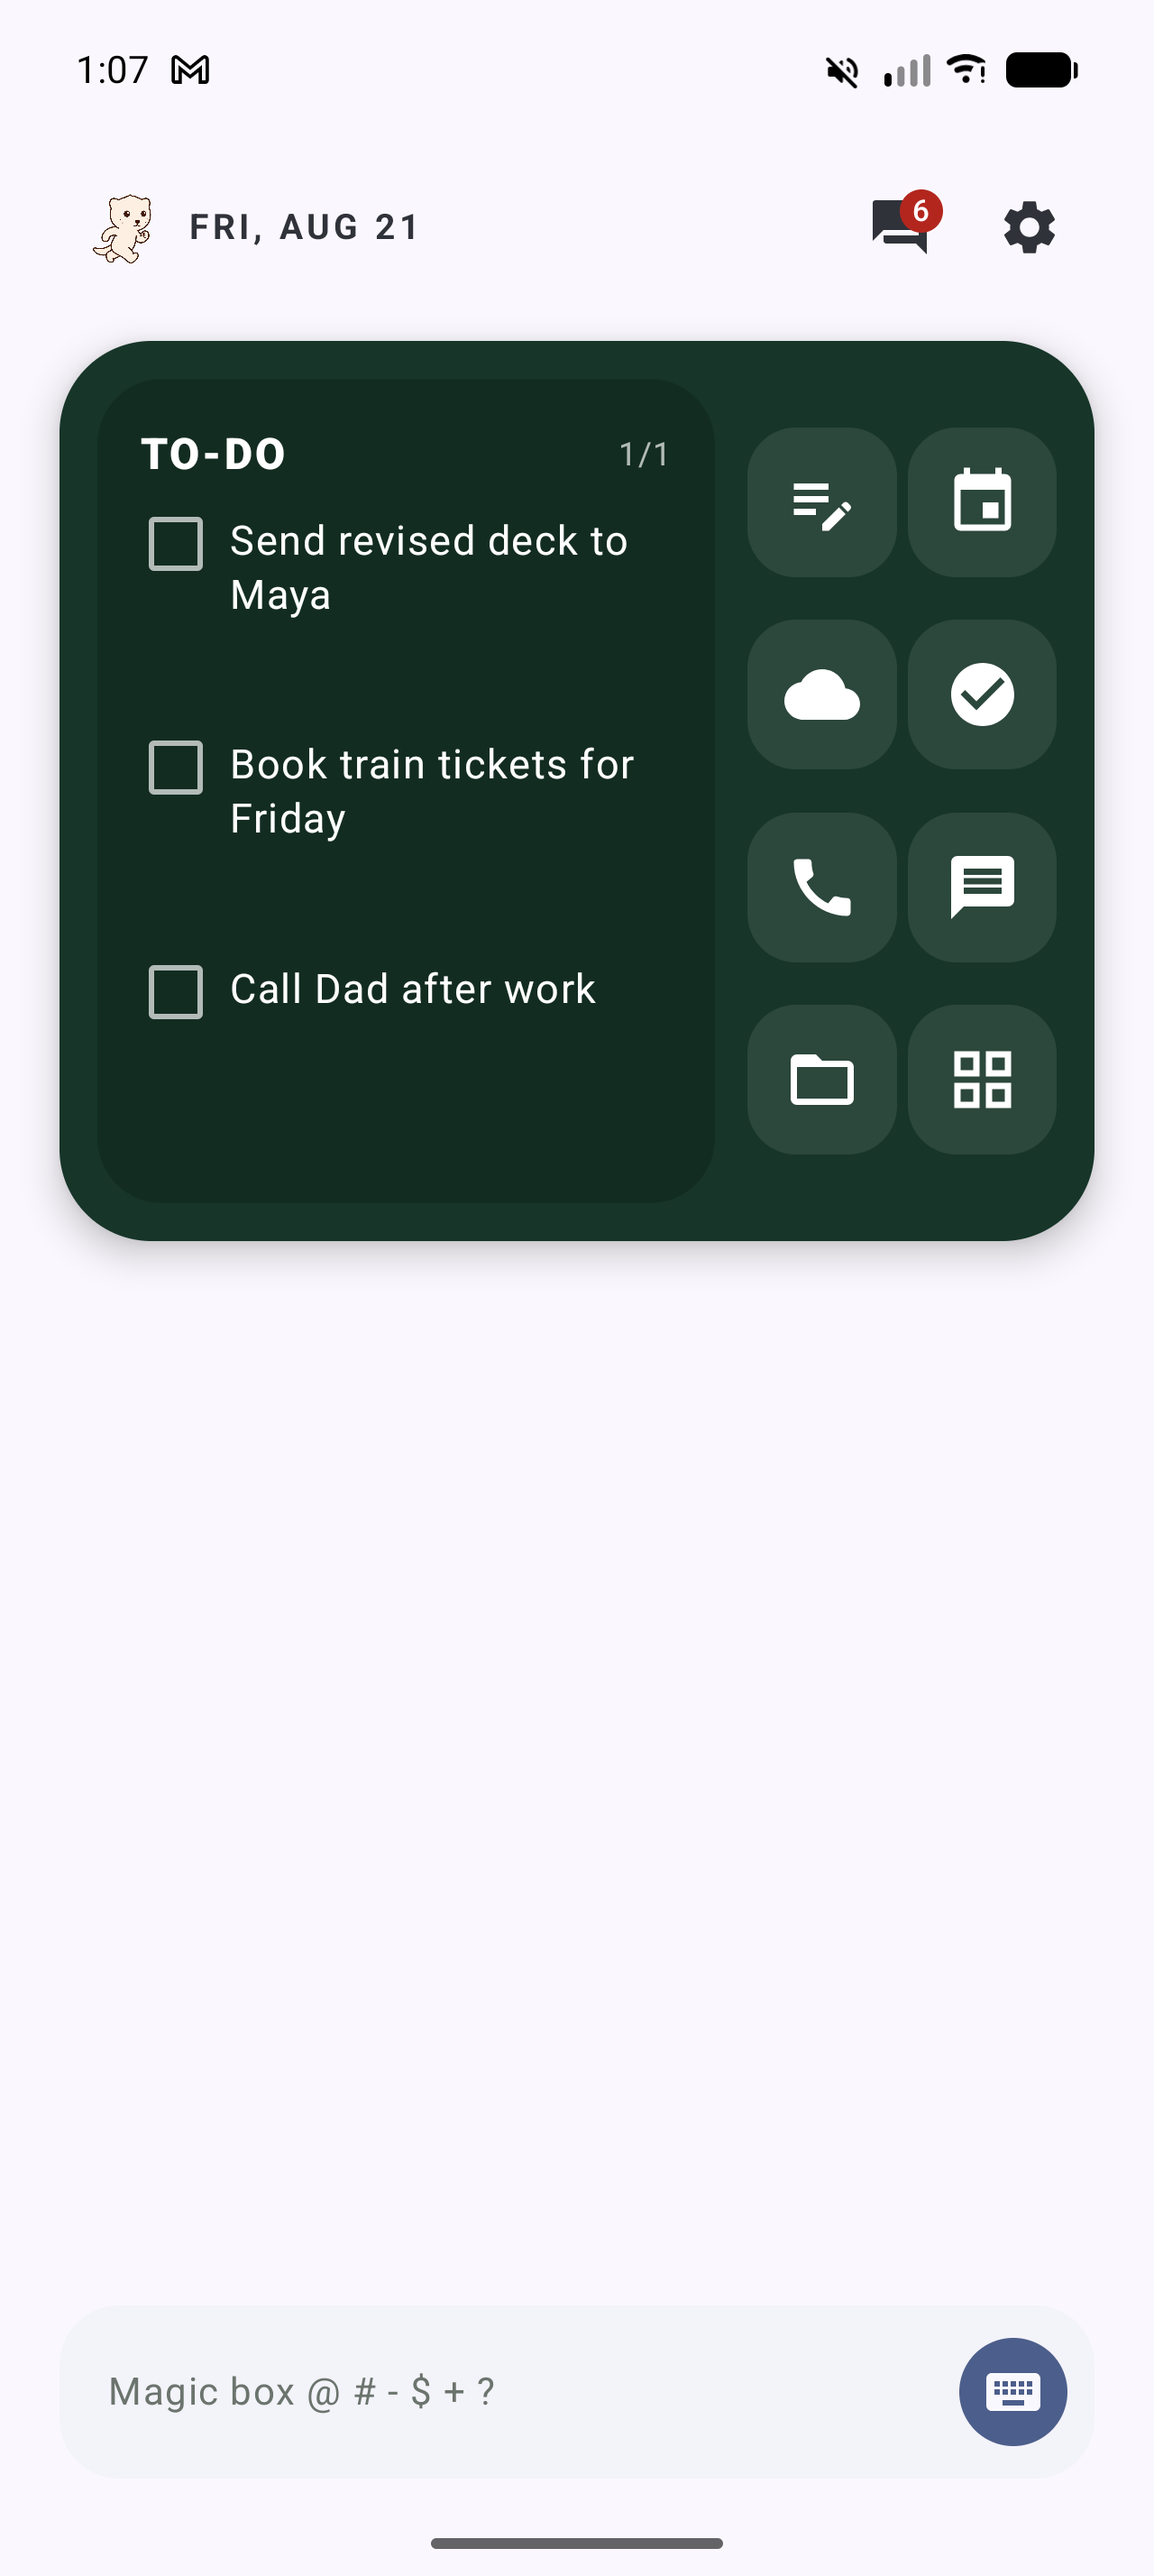
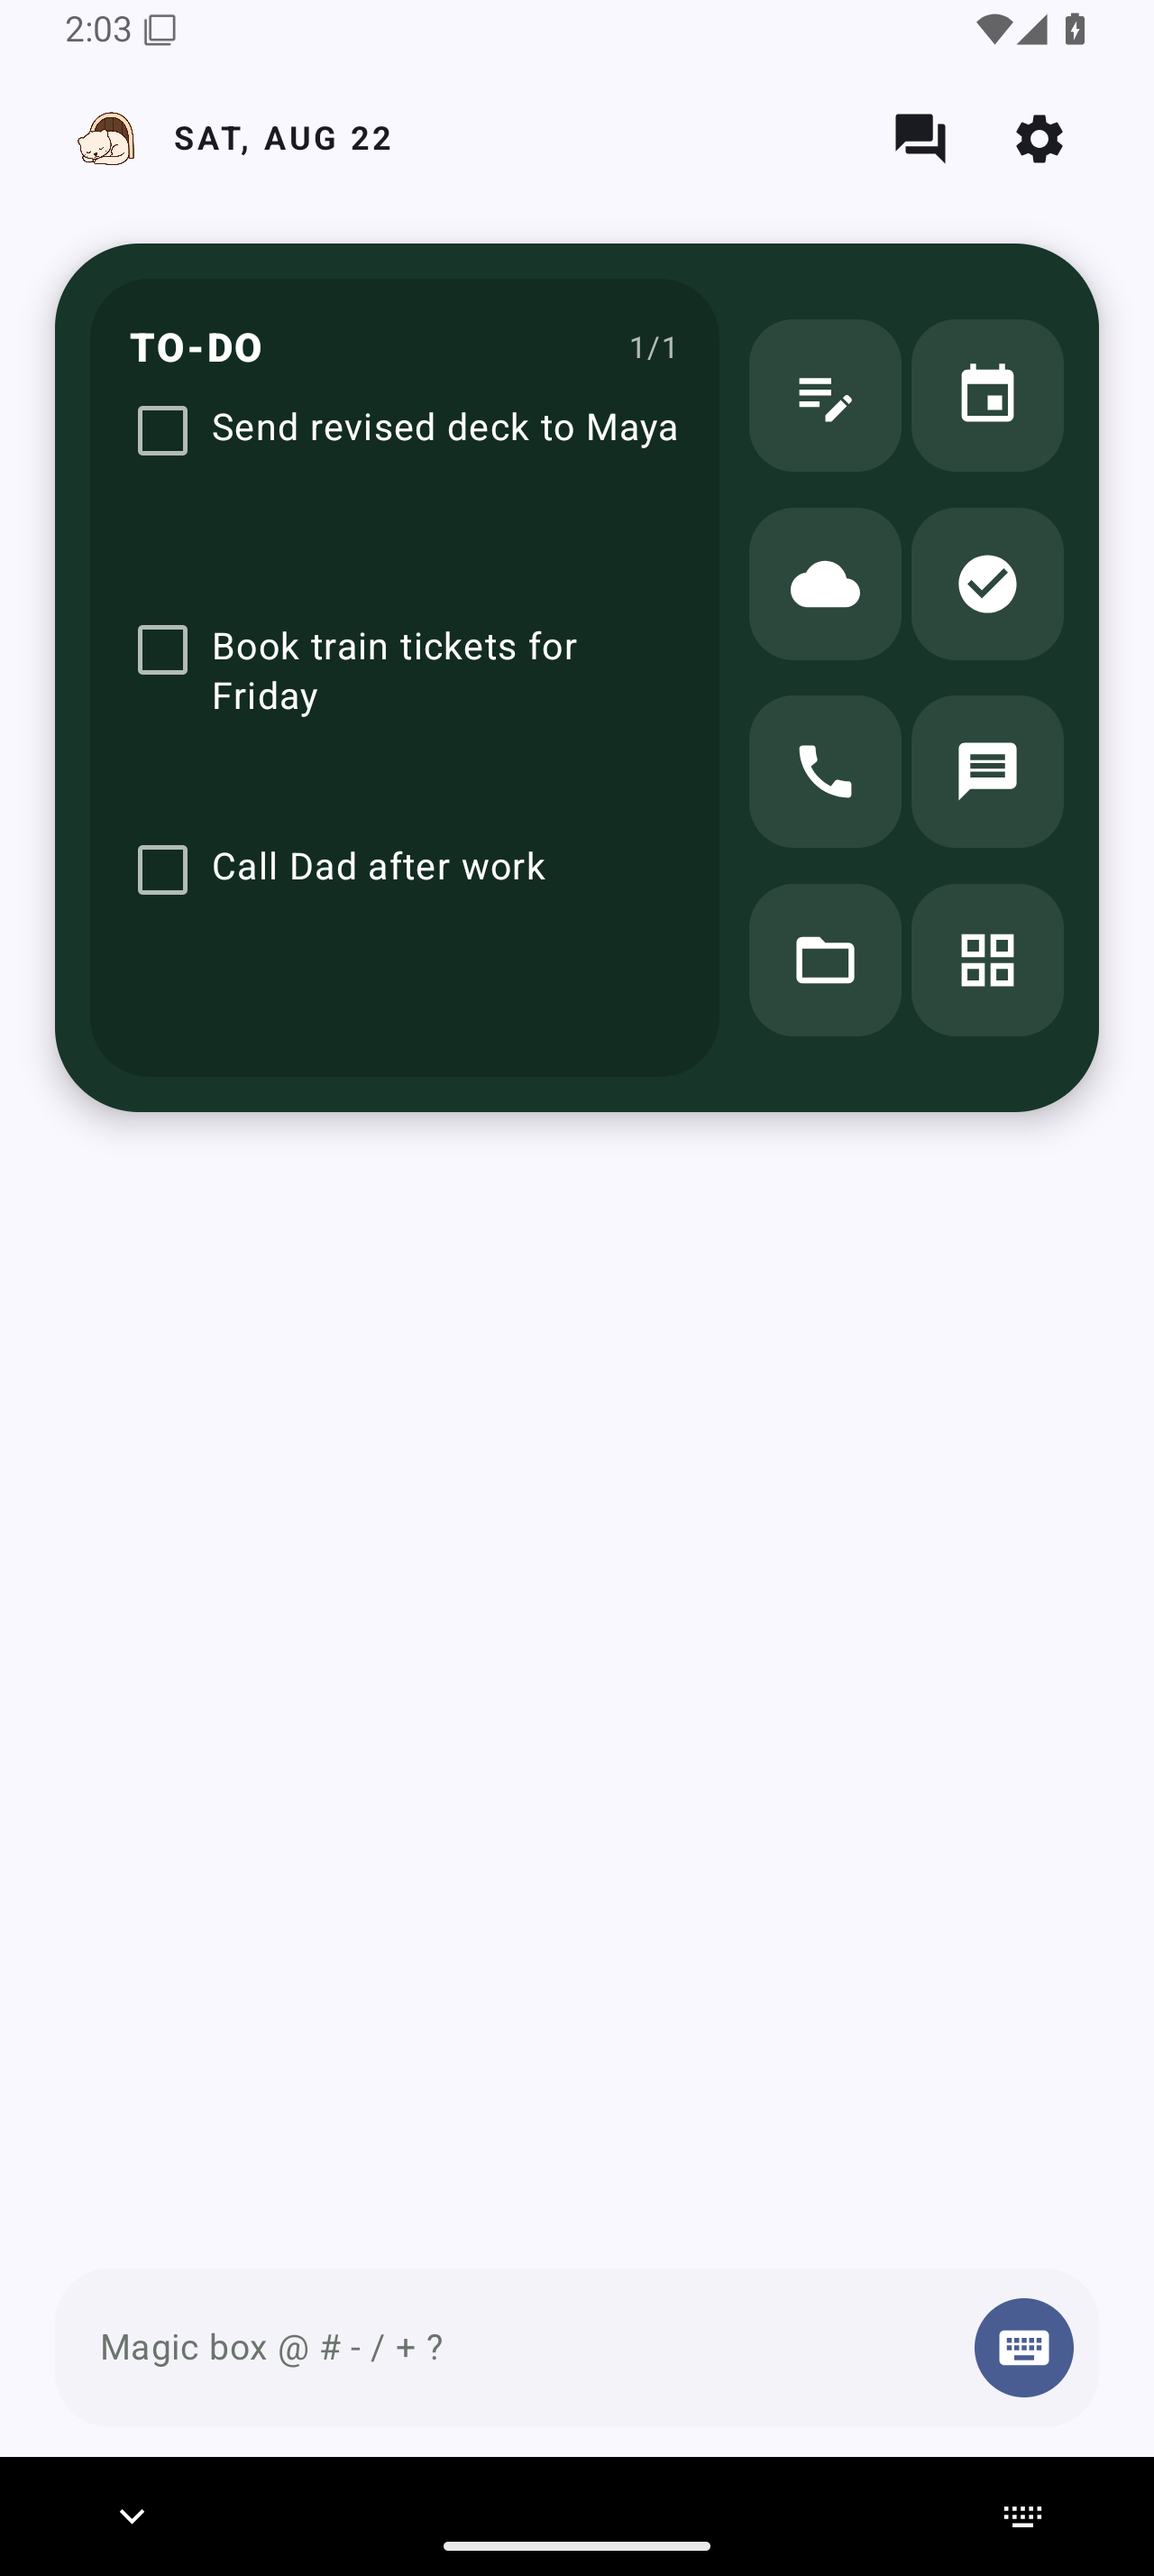
2026-08-22 MT. Replace note hotkey with slash

diff --git a/app/src/main/java/com/katoaapps/openminilaunch/MagicBox.kt b/app/src/main/java/com/katoaapps/openminilaunch/MagicBox.kt
@@ -102,7 +102,7 @@ private fun MagicInputField(
         keyboardOptions = KeyboardOptions(
             showKeyboardOnFocus = false,
             imeAction = when {
-                prefix == '$' -> ImeAction.Default
+                prefix == MAGIC_NOTE_PREFIX -> ImeAction.Default
                 prefix in listOf('@', '#', '-', '+', '?') -> ImeAction.Send
                 else -> ImeAction.Search
             },
@@ -299,7 +299,7 @@ internal fun MagicBox(
         } else emptyList()
     }
     val plainQuery = parsedInput.plainQuery
-    val noteMode = expanded && prefix == '$'
+    val noteMode = expanded && prefix == MAGIC_NOTE_PREFIX
     val hasNoteDraft = noteMode && text.text.drop(1).isNotBlank()
     val indexedFolderUris = store.searchFolders.map { it.uri }
     LaunchedEffect(plainQuery, indexedFolderUris, hasMediaAccess) {
@@ -329,7 +329,7 @@ internal fun MagicBox(
         '@' -> MagicActionVisuals(MagicTextColor, Icons.AutoMirrored.Filled.Send)
         '#' -> MagicActionVisuals(MagicCallColor, Icons.Default.Phone)
         '-' -> MagicActionVisuals(MagicTodoColor, Icons.Default.Checklist)
-        '$' -> MagicActionVisuals(MagicNoteColor, Icons.AutoMirrored.Filled.NoteAdd)
+        MAGIC_NOTE_PREFIX -> MagicActionVisuals(MagicNoteColor, Icons.AutoMirrored.Filled.NoteAdd)
         '+' -> MagicActionVisuals(MagicEventColor, Icons.Default.Event)
         '?' -> MagicActionVisuals(MagicAppColor, Icons.Default.Apps)
         else -> MagicActionVisuals(
@@ -400,7 +400,7 @@ internal fun MagicBox(
         var keepDraftAfterExternalHandoff = false
         val handled = when (prefix) {
             '-' -> payload.isNotBlank().also { if (it) { store.addTodo(payload); onTodoAdded(payload) } }
-            '$' -> payload.isNotBlank() && actions.createNote(payload).also { opened ->
+            MAGIC_NOTE_PREFIX -> payload.isNotBlank() && actions.createNote(payload).also { opened ->
                 keepDraftAfterExternalHandoff = opened
             }
             '+' -> payload.isNotBlank() && actions.createEvent(payload)
@@ -455,6 +455,18 @@ internal fun MagicBox(
                 withFrameNanos { }
                 keyboard?.show()
             }
+        }
+    }
+
+    LaunchedEffect(noteMode) {
+        if (noteMode) {
+            // Entering note mode replaces the compact field with the full-screen editor.
+            // Wait for that editor to be placed before restoring focus so hardware-keyboard
+            // input immediately following the slash command is not dropped.
+            textFieldPlaced = false
+            while (!textFieldPlaced) withFrameNanos { }
+            withFrameNanos { }
+            runCatching { focusRequester.requestFocus() }
         }
     }
 
@@ -526,7 +538,7 @@ internal fun MagicBox(
                                 }
                             }
                         }
-                        if (prefix !in listOf('@', '#', '-', '$', '+', '?') && text.text.isNotBlank()) {
+                        if (prefix !in MAGIC_COMMAND_PREFIXES && text.text.isNotBlank()) {
                             Row(Modifier.fillMaxWidth(), horizontalArrangement = Arrangement.spacedBy(Dimens.dp8)) {
                                 SearchDestinationButton(
                                     label = stringResource(R.string.web),

diff --git a/app/src/main/java/com/katoaapps/openminilaunch/OnboardingScreen.kt b/app/src/main/java/com/katoaapps/openminilaunch/OnboardingScreen.kt
@@ -321,7 +321,7 @@ internal fun OnboardingScreen(store: LauncherStore, actions: DeviceActions, onFi
                                 "@" to stringResource(R.string.magic_text_contact),
                                 "#" to stringResource(R.string.magic_call_contact),
                                 "-" to stringResource(R.string.magic_create_todo),
-                                "$" to stringResource(R.string.magic_send_note),
+                                MAGIC_NOTE_PREFIX.toString() to stringResource(R.string.magic_send_note),
                                 "+" to stringResource(R.string.magic_create_event),
                                 "?" to stringResource(R.string.magic_find_app),
                             ).forEach { (key, description) -> MagicKeyRow(key, description) }

diff --git a/app/src/test/java/com/katoaapps/openminilaunch/MagicBoxInputTest.kt b/app/src/test/java/com/katoaapps/openminilaunch/MagicBoxInputTest.kt
@@ -22,6 +22,22 @@ class MagicBoxInputTest {
     }
 
     @Test
+    fun slashPrefixProducesNoteCommandWithoutPlainSearch() {
+        val input = parseMagicBoxInput("/Draft the release announcement")
+
+        assertEquals(MAGIC_NOTE_PREFIX, input.prefix)
+        assertEquals("", input.plainQuery)
+    }
+
+    @Test
+    fun dollarPrefixIsNowPlainSearchText() {
+        val input = parseMagicBoxInput("\$quarterly revenue")
+
+        assertEquals('$', input.prefix)
+        assertEquals("\$quarterly revenue", input.plainQuery)
+    }
+
+    @Test
     fun selectedContactLocksCommandAndStopsContactFiltering() {
         val input = parseMagicBoxInput("message body", lockedPrefix = '@')
 

diff --git a/app/src/main/java/com/katoaapps/openminilaunch/MagicBoxComponents.kt b/app/src/main/java/com/katoaapps/openminilaunch/MagicBoxComponents.kt
@@ -214,7 +214,7 @@ internal fun MagicBoxLegend(activePrefix: Char?, enabled: Boolean = true, onSele
         MagicCommand('@', R.string.command_text, MagicTextColor),
         MagicCommand('#', R.string.command_call, MagicCallColor),
         MagicCommand('-', R.string.command_todo, MagicTodoColor),
-        MagicCommand('$', R.string.command_note, MagicNoteColor),
+        MagicCommand(MAGIC_NOTE_PREFIX, R.string.command_note, MagicNoteColor),
         MagicCommand('+', R.string.command_event, MagicEventColor),
         MagicCommand('?', R.string.command_app, MagicAppColor),
     )

diff --git a/app/src/main/java/com/katoaapps/openminilaunch/MagicBoxInput.kt b/app/src/main/java/com/katoaapps/openminilaunch/MagicBoxInput.kt
@@ -1,6 +1,7 @@
 package com.katoaapps.openminilaunch
 
-internal val MAGIC_COMMAND_PREFIXES = setOf('@', '#', '-', '$', '+', '?')
+internal const val MAGIC_NOTE_PREFIX = '/'
+internal val MAGIC_COMMAND_PREFIXES = setOf('@', '#', '-', MAGIC_NOTE_PREFIX, '+', '?')
 
 internal data class MagicBoxInput(
     val prefix: Char?,

diff --git a/README.md b/README.md
@@ -55,7 +55,7 @@ the existing app first and clears MinkLauncher OpenSource's local data.
   - `@name message` — choose a contact, then send carrier SMS now or hand the recipient and text to an Android-compatible messaging app
   - `#name` — choose a contact, then place the confirmed carrier call or open Android’s compatible calling-app chooser
   - `-task` — save an internal to-do
-  - `$text` — enter a multiline note; prefer Android's dedicated create-note action, use the chosen Notes app when compatible, and use Samsung Notes' text handoff on Samsung devices
+  - `/text` — enter a multiline note; prefer Android's dedicated create-note action, use the chosen Notes app when compatible, and use Samsung Notes' text handoff on Samsung devices
   - `+text` — create a calendar draft with local English-language parsing for titles, `for …` descriptions, today/tomorrow, weekdays, `in N days/weeks/months`, `first weekday after the Nth`, and common 12/24-hour times
   - `?app` — search and launch any installed app
 - **Mink Assistant** integration: invoke the same keyboard-first Magic Box over the current app using the phone's system assistant gesture
